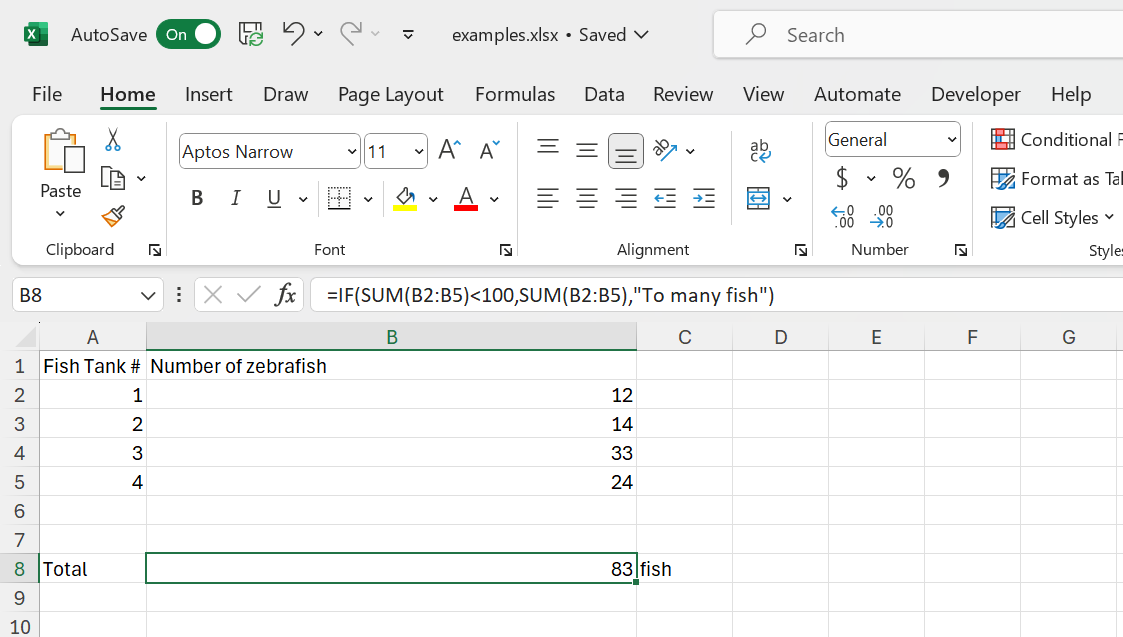
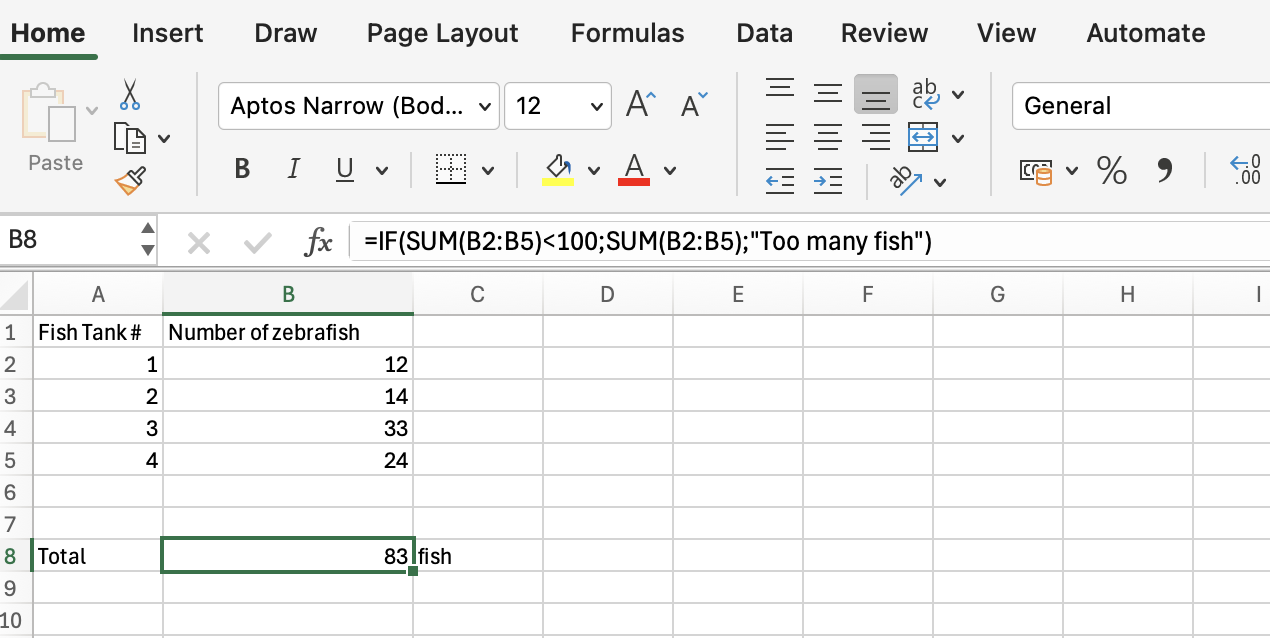
typo en fig_changes

Changed region(s): [[0.0, 0.0298, 1.0, 1.0]]

diff --git a/excel/excel_08_data_analysis.md b/excel/excel_08_data_analysis.md
@@ -37,7 +37,7 @@ And then we can type the appropriate formula:
 ![formula](./pics_08_data_analysis/fig4.png)
 *<sub>Figure 4: Adding the formula</sub>*
 
-Note that the IF function was used to prevent a division by zero error.
+Note that the `IF` function was used to prevent a division by zero error (`#DIV/0!`).
 
 ```
 =IF([@Weight]=0,0,[@HeartRate]/[@Weight])
@@ -45,7 +45,7 @@ Note that the IF function was used to prevent a division by zero error.
 
 If the denominator is zero, the result will be 0. In this way, a division by zero error will be prevented. Although a 0 is not to be expected here, it is always a good idea to prevent such errors from occurring.
 
-Now we will calculate averages of some whole columns (such ast the average heart rate, the average weight etc.). You might be tempted to put the output below the table. However, it is better to get the output of calculations on whole columns on another sheet (name it analysis).
+Now we will calculate averages of some whole columns (such ast the average heart rate, the average weight etc.). You might be tempted to put the output below the table. However, it is better to get the output of calculations on whole columns on another sheet (name the new sheet "analysis").
 First of all, there might be new future data records and you can perform calculations on whole columns (not restricted to a block of rows).
 In addition, all the values from the column-based analysis can be linked to a variable.
 
@@ -65,11 +65,11 @@ The `TRANSPOSE` function is an array formula which means that it can perform mul
 
 ## The anatomy of a function
 
-Excel has a lot of functions ready to use like the `SUM` function, the `AVERAGE` function and the `COUNTIF` function. You can even [create your own function in Excel](https://support.microsoft.com/en-us/office/create-custom-functions-in-excel-2f06c10b-3622-40d6-a1b2-b6748ae8231f) (which is beyond the scope of this course). If you frequently need to create your own function, you are probably better of with R or Python. But what is an function?
+Excel has a lot of functions ready to use like the `SUM` function, the `AVERAGE` function and the `COUNTIF` function. You can even [create your own function in Excel](https://support.microsoft.com/en-us/office/create-custom-functions-in-excel-2f06c10b-3622-40d6-a1b2-b6748ae8231f) (which is beyond the scope of this course). If you frequently need to create your own function, you are probably better off with R or Python. But what is a function?
 
 >In Microsoft Excel, a function is a built-in formula that is designed to perform a specific calculation. Functions can help you perform a wide range of calculations, from simple arithmetic operations such as addition, subtraction, and multiplication to more complex calculations such as statistical analysis and data manipulation.  
 
-Excel functions are identified by their names, which typically begin with the equal sign (=) followed by the function name and any required arguments. For example, the SUM function adds up a range of numbers and is written as:
+Excel functions are identified by their names, which begin with the equal sign (=) followed by the function name and any required arguments. For example, the `SUM` function adds up a range of numbers and is written as:
 
 ```
 =SUM(A1:A10) 
@@ -77,7 +77,7 @@ Excel functions are identified by their names, which typically begin with the eq
 
 where A1:A10 is the range of cells to be added.
 
-Other functions require multiple arguments. For example, the COUNTIF function requires 2 arguments. An example notation for the COUNTIF function is written as:
+Other functions require multiple arguments. For example, the `COUNTIF` function requires 2 arguments. An example notation for the `COUNTIF` function is written as:
 
 ```
 =COUNTIF(A1:A10;">10")
@@ -98,6 +98,7 @@ The COUNTIFS function counts cells in a range based on one or more true or false
 ```
 =COUNTIFS(criteria_range1, criteria1, [criteria_range2, criteria2], ...)
 ```
+Note that some functions have arguments between brackets (`[]`). These arguments are optional.
 
 ![countifs](./pics_08_data_analysis/fig7.png)
 *<sub>Figure 7: Excel provides suggestions for the arguments.</sub>*
@@ -120,9 +121,9 @@ When you separate the analysis from the data, selecting ranges will be quite cum
 
 >Note that you can easily create a selection of a whole column by clicking the first cell. Then hit `Ctrl` + `Shift` + `Downarrow`. 
 
-Instead of typing or clicking a lot you can assign variable names to selections and store them in memory. See [this link](https://support.microsoft.com/en-us/office/create-a-named-range-from-selected-cells-in-an-excel-worksheet-fd8905ed-1130-4cca-9bb0-ad02b7e594fd). Once you assigned a variable name for a range, you can simply type the (short) variable name instead of clicking a lot (or typing a lot). On the `Formulas` tab, you can click the Name Manager to get an overview of all the assigned selections and also rename them.
+Instead of typing or clicking a lot you can assign variable names to selections and store them in memory. See [this link](https://support.microsoft.com/en-us/office/create-a-named-range-from-selected-cells-in-an-excel-worksheet-fd8905ed-1130-4cca-9bb0-ad02b7e594fd). Once you assigned a variable name for a range, you can simply type the (short) variable name instead of clicking a lot (or typing a lot). On the `Formulas` tab, you can click the `Name Manager` to get an overview of all the assigned selections and also rename them.
 
->When you import csv files using Power Query, Excel will automatically assign a selection name for the whole table. You can rename this selection under Formulas > Name Manager.
+>When you import csv files using Power Query, Excel will automatically assign a selection name for the whole table. You can rename this selection under `Formulas > Name Manager`.
 
 ## Array formulas
 
@@ -133,10 +134,10 @@ Let's have a look at an example:
 ![array](./pics_08_data_analysis/fig9.png)
 *<sub>Figure 9: Small dataset to perform a calculation.</sub>*
 
-What we would like to calculate is the total weight from all the fish in all of the fish tanks. We can of course first calculate the total weight per tank and calculate the sum but using array formulas we can do it all at once:
+What we would like to calculate is the total weight from all the fish in all of the fish tanks. Of course we can first calculate the total weight per tank and calculate the sum, but by using array formulas, we can do it all at once:
 
 ```
-=sum(C2:C5*D2:D5)
+=SUM(C2:C5*D2:D5)
 ```
 
 ![array](./pics_08_data_analysis/fig10.png)
@@ -144,7 +145,7 @@ What we would like to calculate is the total weight from all the fish in all of 
 
 As you can see, the answer is directly calculated. If you are not interested in the total weight of the fish within the individual fish tanks but just the total weight of all the fish (in all the tanks) this will save you adding an extra column. You can put the calculation directly on an analysis tab.
 
-There is just one detail left out. Although the formula works, it is advised to press the keyboard shortcut CTRL + SHIFT + ENTER to complete the array formula. As a result, Microsoft Excel surrounds the formula with curly braces, which is an indication of an array formula so that people know that we are dealing with an array formula.
+There is just one detail left out. Although the formula works, it is advised to press the keyboard shortcut CTRL + SHIFT + ENTER to complete the array formula. As a result, Microsoft Excel surrounds the formula with curly braces (`{}`), which is an indication of an array formula, so that people know that we are dealing with an array formula.
 
 ![array](./pics_08_data_analysis/fig11.png)
 *<sub>Figure 11: Curly braces are a visual indication for an array formula.</sub>*
@@ -170,12 +171,12 @@ Or the example that we have seen before:
 
 ## Nesting functions
 
-It is possible to nest functions. Although this is allowed in some cases, be aware that this becomes very complex easily.
+It is possible to nest functions (use a function as an argument in a function). Although this is allowed in some cases, be aware that this becomes very complex easily.
 
 Example:
 
 ```
-=IF(AVERAGE(A1:A3)>5.5;SUM(B1:B3);"Insufficient")
+=IF(AVERAGE(B2:B5)<100;SUM(B2:B5);"Too many fish")
 ```
 
 ![array](./pics_08_data_analysis/fig14.png)
@@ -199,28 +200,28 @@ Here is a small selection of some useful functions:
 
 ### IF
 
-The IF function is one of the most popular functions in Excel, and it allows you to make logical comparisons between a value and what you expect.
+The `IF` function is one of the most popular functions in Excel, and it allows you to make logical comparisons between a value and what you expect.
 
 ![if](./pics_08_data_analysis/fig16.png)
 *<sub>Figure 16: The IF function.</sub>*
 
 ### COUNTIF
 
-COUNTIF can be used to count the number of cells that meet a criterion; for example, to count the number of times a high caloric beverage appears in a list.
+`COUNTIF` can be used to count the number of cells that meet a criterion; for example, to count the number of overweight fish that appears in a list.
 
 ![countif](./pics_08_data_analysis/fig17.png)
 *<sub>Figure 17: The COUNTIF function.</sub>*
 
-There is also a COUNTIFS function for multiple arrays and conditions.
+There is also a `COUNTIFS` function for multiple arrays and conditions.
 
 ### XLOOKUP
 
-The XLOOKUP function searches a range or an array, and then returns the item corresponding to the first match it finds. 
+The `XLOOKUP` function searches a range or an array, and then returns the item corresponding to the first match it finds. 
 
 ![xlookup](./pics_08_data_analysis/fig18.png)
 *<sub>Figure 18: The XLOOKUP function.</sub>*
 
-So the XLOOKUP function checks the position of a lookup key and returns the corresponding value.
+So the `XLOOKUP` function checks the position of a lookup key and returns the corresponding value.
 
 These are just some examples. Use the online resources or the recommended Excel book to find more useful functions.
 
@@ -228,20 +229,20 @@ These are just some examples. Use the online resources or the recommended Excel 
 ## Statistics
 
 Excel has many functions for statistics like `STDEV.P`, `T.TEST`, `F.TEST` and `CHISQ.DIST.RT`. 
-A comprehensive list can be found [here](https://support.microsoft.com/en-us/office/statistical-functions-reference-624dac86-a375-4435-bc25-76d659719ffd)
+A comprehensive list can be found [here](https://support.microsoft.com/en-us/office/statistical-functions-reference-624dac86-a375-4435-bc25-76d659719ffd).
 
 In addition, Excel has a a [statistics analysis pack](https://support.microsoft.com/en-gb/office/load-the-analysis-toolpak-in-excel-6a63e598-cd6d-42e3-9317-6b40ba1a66b4) available as plugin.
 
 
-Here is an example of a diet intervention. Because the same subjects are measured twice, a paired T-test was used. The is a one-tailed test as we are looking for a weight reduction (alpha = 0.05)
+Here is an example of a diet intervention. Because the same subjects are measured twice, a paired T-test was used. This is a one-tailed test as we are looking for a weight reduction (alpha = 0.05).
 
 ![t-test](./pics_08_data_analysis/fig19.png)
 *<sub>Figure 19: A paired T-test in Excel.</sub>*
 
-The result is significant so H1 is true. The diet resulted in a significant weight reduction (alpha = 0.05)
+The result is significant so H1 (hypothesis 1) is true. The diet resulted in a significant weight reduction (alpha = 0.05).
 Note that the result is static. If we change the values, we need do redo the test.
 
-Statics in Excel is limited. For example, non-parametric tests like the Mann–Whitney U test are not included in Excel. If you need to do more complex statistics, use R or Python instead.
+Statistics in Excel is limited. For example, non-parametric tests like the Mann–Whitney U test are not included in Excel. If you need to do more complex statistics, use R or Python instead.
 
 The actual content of statistics is beyond the scope of this course. Attend a statistics course of you need more background on this subject.
 
@@ -297,7 +298,7 @@ And the result:
 Pivot tables come in handy to analyze data quickly and in an organized manner.
 Let's pretend that we are interested in comparing the average heart rate and the count of diabetics for each activity category (sedentary, mild and moderate activity) from the earlier used [dataset](./files_08_data_analysis/file01_dementia_patients_health_data.csv).
 
-We can select the table. Than choose insert > Pivot table:
+We can select the table. Than choose `Insert > Pivot table`:
 
 ![pivot table](./pics_08_data_analysis/fig27.png)
 *<sub>Figure 27: Pivot table.</sub>*
